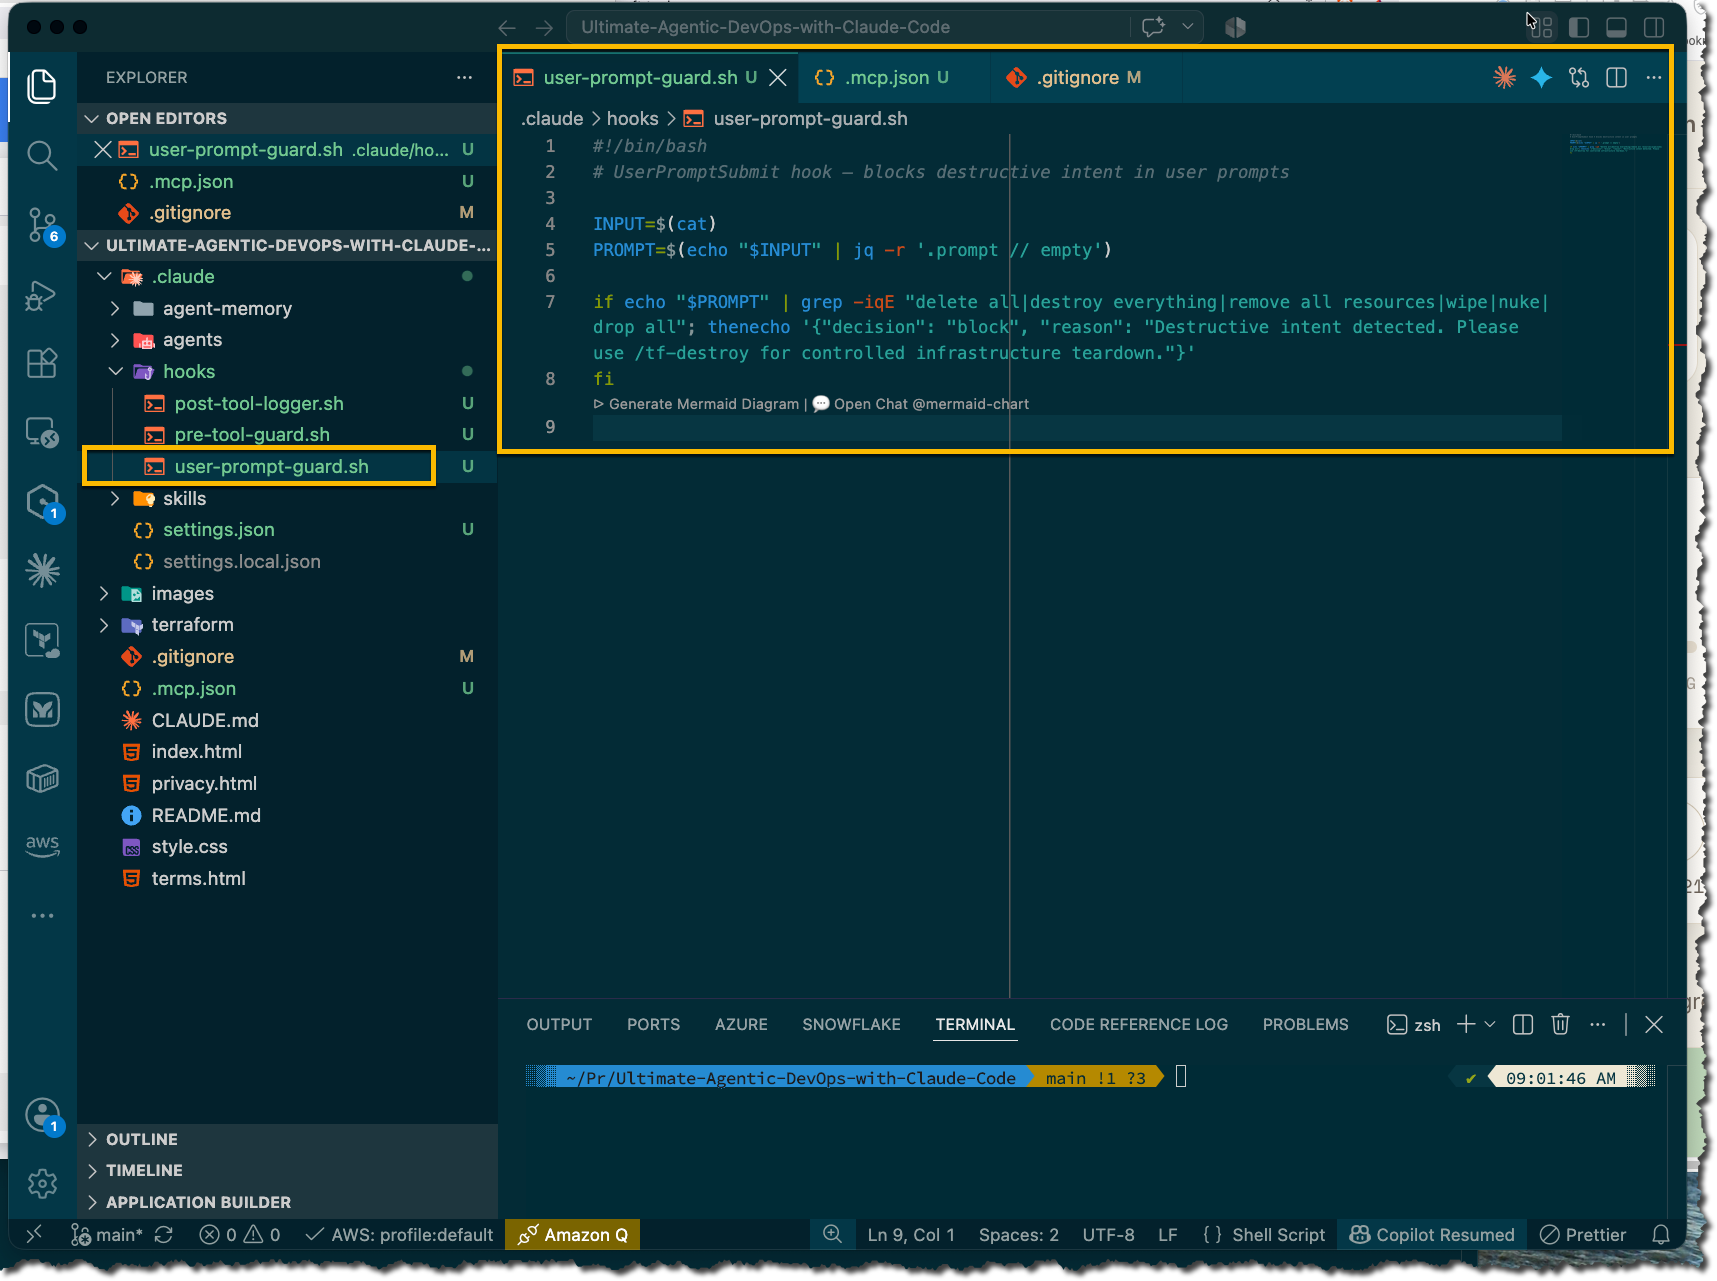
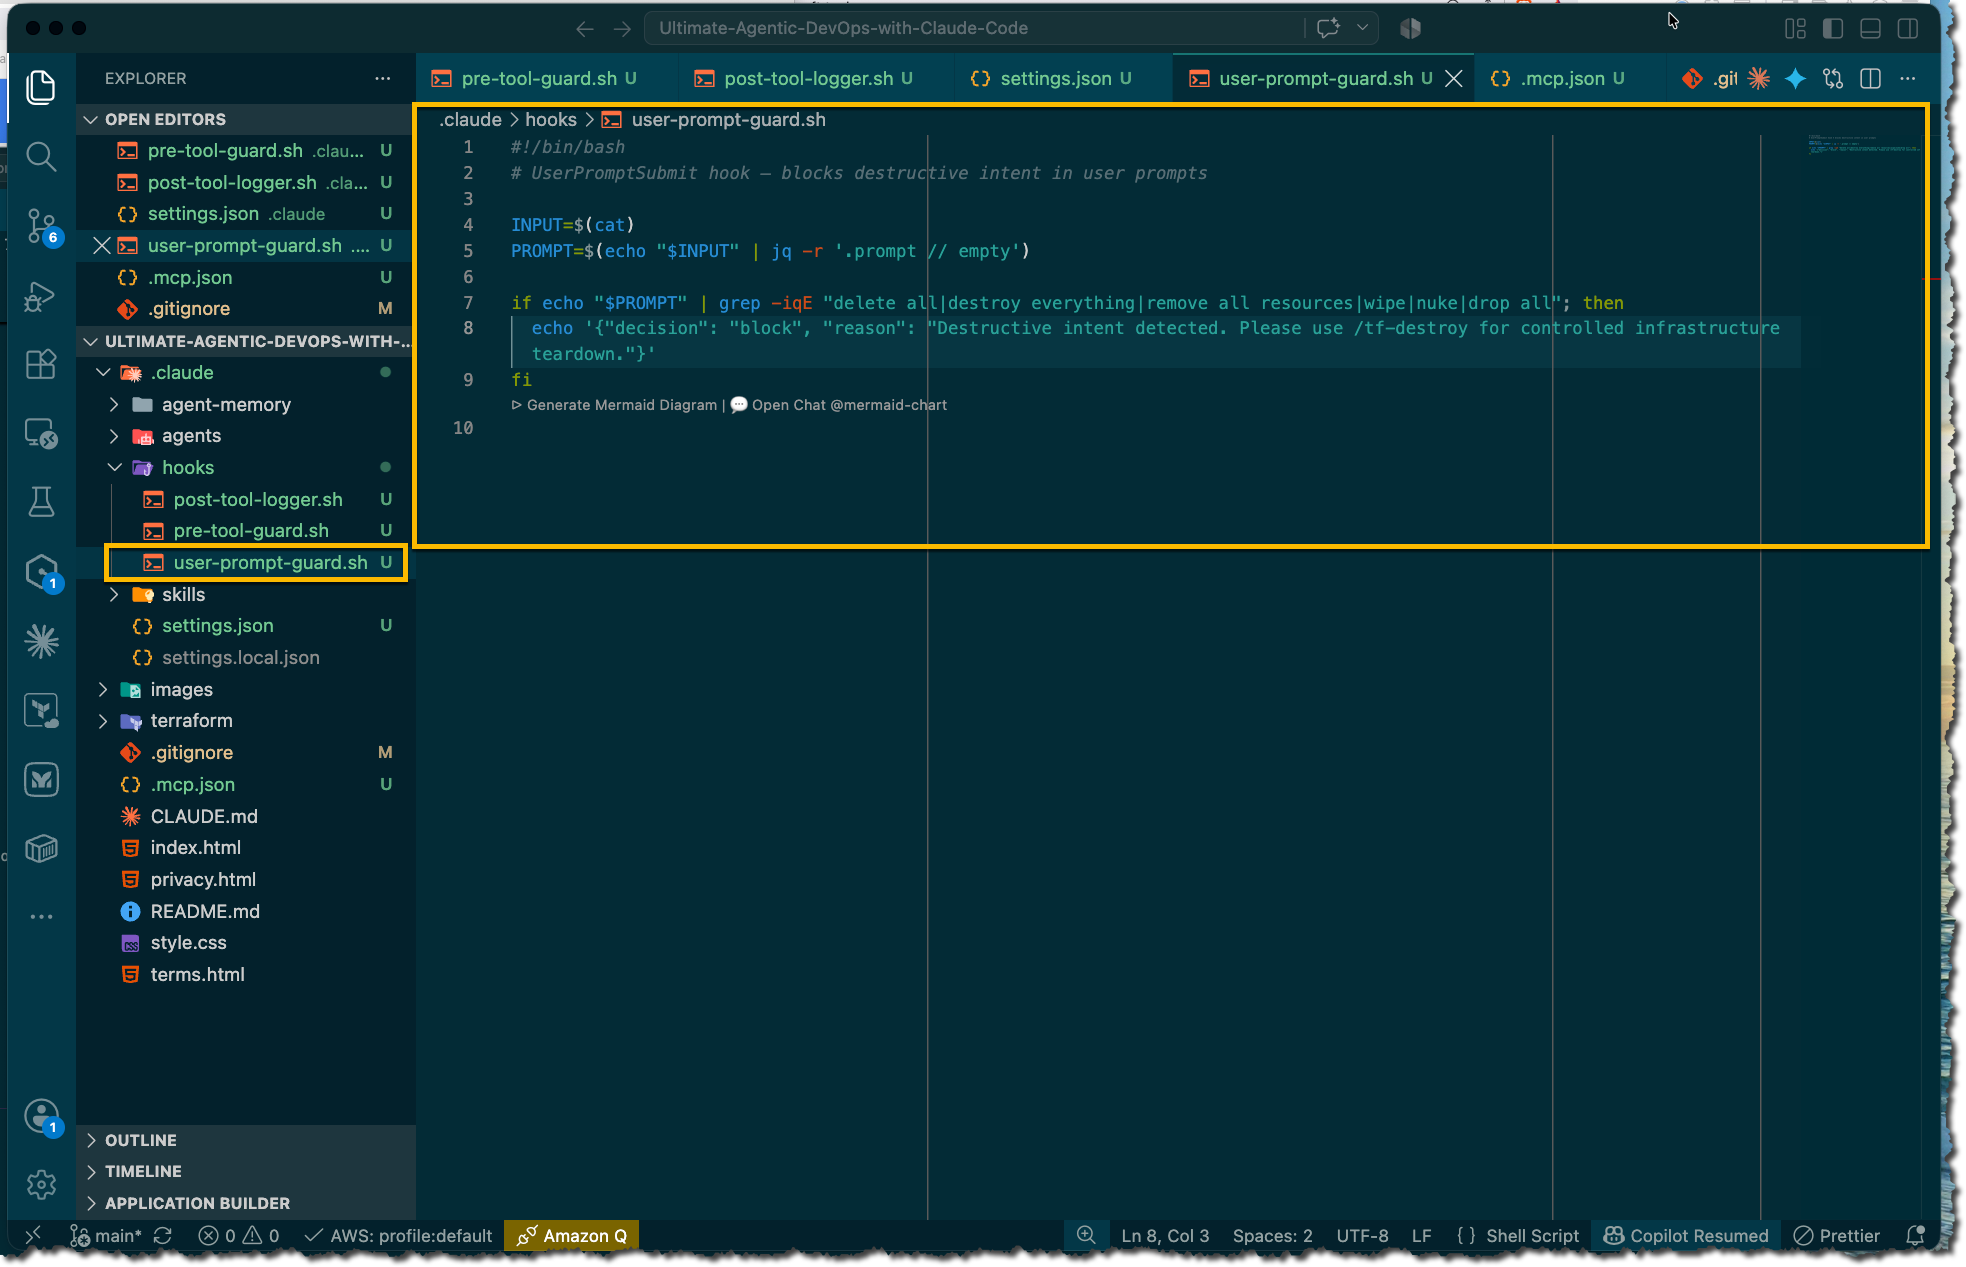
Add screenshots for Assignment 6 and update references in the documentation

diff --git a/week-02-agentic-ai/assignment-06-hooks-permissions.md b/week-02-agentic-ai/assignment-06-hooks-permissions.md
@@ -76,7 +76,7 @@ Configure Claude Code permissions and connect the hook scripts created in the pr
 
 #### Screenshot 5 — `settings.json` open in VS Code showing permissions and hooks configuration
 
-![Screenshot 4](./screenshots/week-02-agentic-ai-assignment-06-05.png)
+![Screenshot 5](./screenshots/week-02-agentic-ai-assignment-06-05.png)
 
 ---
 
@@ -90,6 +90,8 @@ Prove the prompt-level hook works by typing a destructive prompt and verifying i
 
 #### Screenshot 6 — UserPromptSubmit hook blocking the destructive prompt
 
+![Screenshot 6](./screenshots/week-02-agentic-ai-assignment-06-06.png)
+
 ---
 
 # Task 7 — Test the PreToolUse Hook
@@ -101,6 +103,8 @@ Prove the tool-level hook works by asking Claude to execute a dangerous Bash com
 ### Evidence
 
 #### Screenshot 7 — PreToolUse hook blocking terraform destroy
+
+![Screenshot 7](./screenshots/week-02-agentic-ai-assignment-06-07.png)
 
 ---
 
@@ -114,7 +118,11 @@ Prove the logging hook runs after a successful command execution and records Ter
 
 #### Screenshot 8 — Claude running terraform validate successfully
 
+![Screenshot 8](./screenshots/week-02-agentic-ai-assignment-06-08.png)
+
 #### Screenshot 9 — `.claude/deploy.log` showing the logged command
+
+![Screenshot 9](./screenshots/week-02-agentic-ai-assignment-06-09.png)
 
 ---
 
